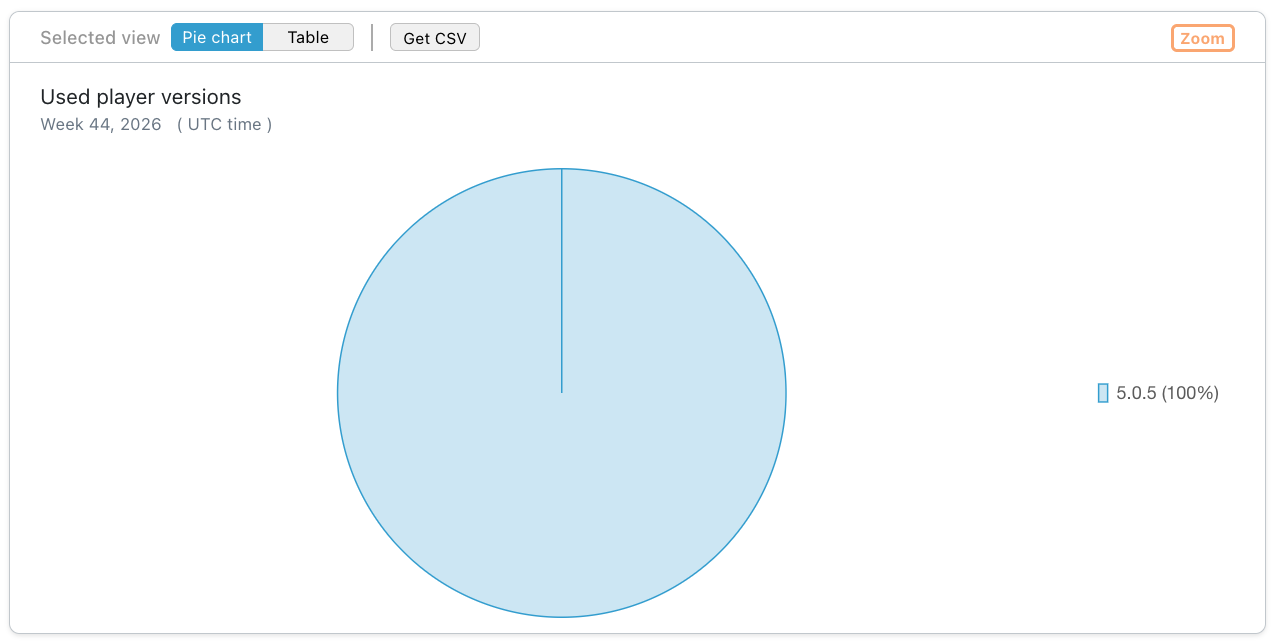
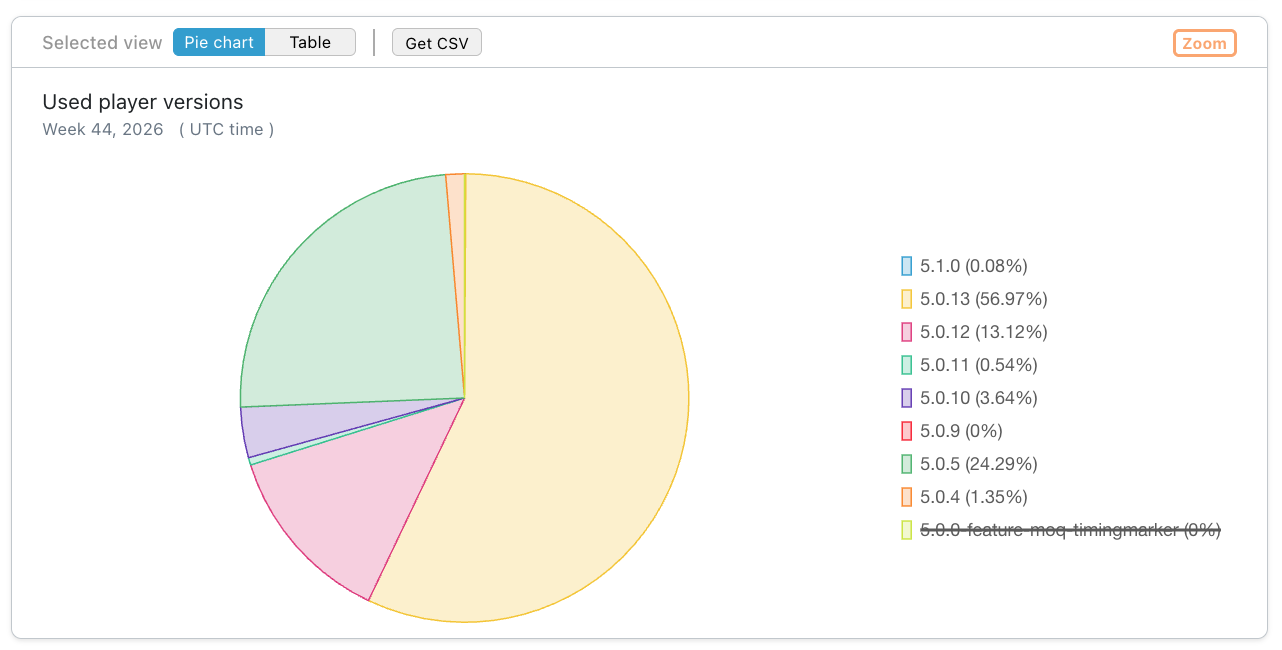
docs(analytics): MoQ dashboard release notes and review fixes
- Dashboard release notes 2.34.0: new MoQ page and H5Live change;
  move 2.33.0 to history
- H5Live dashboard page: info box that MoQ playbacks moved to the
  MoQ page
- MoQ dashboard page: remove admin-only latency percentiles chart,
  align wording with the H5Live page, add metrics-enabled note
- Replace used player versions screenshot

diff --git a/docs/cloud/analytics-dashboard-moq.md b/docs/cloud/analytics-dashboard-moq.md
@@ -8,35 +8,37 @@ sidebar_label: MoQ
 # MoQ
 
 The MoQ page shows metrics for playbacks of the Player that use [Media over QUIC (MoQ)](../nanoplayer/nanoplayer_feature_moq.md).
+These playbacks are shown here and not on the [H5Live](./h5live) page.
+Most of the metrics are only available with [H5Live metrics](./analytics-introduction.md) enabled.
 The selected filter options affect all available metrics.
 
 ![Screenshot: MoQ Charts](../assets/analytics/analytics-moq.png)
 *Screenshot: MoQ Charts*
 
-### MoQ playback count per os
+### MoQ playback count per OS
 
-Distribution of MoQ playbacks on operating systems (OS), as a percentage and as a count.
+Percentage distribution of MoQ playbacks on operating systems (OS), with the playback count.
 
-![Screenshot: MoQ playback count per os](../assets/analytics/analytics-moq-playback-count-os.png)
-*Screenshot: MoQ playback count per os*
+![Screenshot: MoQ playback count per OS](../assets/analytics/analytics-moq-playback-count-os.png)
+*Screenshot: MoQ playback count per OS*
 
 ### MoQ playback count per browser
 
-Distribution of MoQ playbacks in browsers, as a percentage and as a count.
+Percentage distribution of MoQ playbacks in browsers, with the playback count.
 
 ![Screenshot: MoQ playback count per browser](../assets/analytics/analytics-moq-playback-count-browser.png)
 *Screenshot: MoQ playback count per browser*
 
-### MoQ playtime per os
+### MoQ playtime per OS
 
-Distribution of MoQ playtime on operating systems (OS), as a percentage and as total playtime.
+Percentage distribution of MoQ playtime on operating systems (OS), with the total playtime.
 
-![Screenshot: MoQ playtime per os](../assets/analytics/analytics-moq-playtime-os.png)
-*Screenshot: MoQ playtime per os*
+![Screenshot: MoQ playtime per OS](../assets/analytics/analytics-moq-playtime-os.png)
+*Screenshot: MoQ playtime per OS*
 
 ### MoQ playtime per browser
 
-Distribution of MoQ playtime in browsers, as a percentage and as total playtime.
+Percentage distribution of MoQ playtime in browsers, with the total playtime.
 
 ![Screenshot: MoQ playtime per browser](../assets/analytics/analytics-moq-playtime-browser.png)
 *Screenshot: MoQ playtime per browser*
@@ -102,10 +104,3 @@ The number and types of reasons why MoQ playbacks were stopped or interrupted.
 
 ![Screenshot: Stop reasons](../assets/analytics/analytics-moq-stop-reasons.png)
 *Screenshot: Stop reasons*
-
-### Percentiles of average player latency in seconds
-
-The distribution of the average player latency of MoQ playbacks, shown as the 10th, 25th, 50th, 75th, 85th, 90th and 95th percentile.
-
-![Screenshot: Percentiles of average player latency in seconds](../assets/analytics/analytics-moq-latency-percentiles.png)
-*Screenshot: Percentiles of average player latency in seconds*

diff --git a/docs/cloud/analytics-dashboard-releases-latest.md b/docs/cloud/analytics-dashboard-releases-latest.md
@@ -7,12 +7,21 @@ sidebar_label: Latest
 
 # Changelog
 
-## 2.33.0 - Expired token revocation & buffering ratio
+## 2.34.0 - MoQ playback statistics
 
-### **Guardian — Token Revocation**
-   -  **expired playback tokens** can now be revoked for a **24-hour grace period** after expiration, so operators can still terminate ongoing playback sessions running on a technically-expired token
-   -  the **Expired** label is decoupled from the Revoke action: the label appears as soon as the token's `exp` is in the past, but the Revoke button stays available during the grace period
+### **MoQ**
+   -  added a new [**MoQ**](./analytics-dashboard-moq.md) page (`/moq`) below **H5Live**. It shows the playback metrics of the [Media over QUIC (MoQ)](../nanoplayer/nanoplayer_feature_moq.md) player with the following widgets
+      -  playback count per OS and per browser (zoom + CSV export)
+      -  playtime per OS and per browser (zoom + CSV export)
+      -  average and median playing time in seconds (zoom + CSV export)
+      -  play buffering ratio in percent (zoom + CSV export)
+      -  player loading count per country (zoom + CSV export)
+      -  used player versions (zoom + CSV export)
+      -  average and median player latency in seconds (zoom + CSV export)
+      -  median play startup time in seconds (zoom + CSV export)
+      -  status/error codes (zoom + CSV export)
+      -  stop reasons (zoom + CSV export)
 
 ### **H5Live**
-   -  the **Buffering Ratio** widget no longer fills future timestamps with zero values; the chart now ends at the last bucket with real data
-   -  buckets with no active streams are shown as a gap ("nothing to measure") instead of 0% ("measured, no buffering"); empty ranges show *No data available*
+   -  the H5Live page no longer includes playbacks via [Media over QUIC (MoQ)](../nanoplayer/nanoplayer_feature_moq.md); these playbacks are now shown on the [**MoQ**](./analytics-dashboard-moq.md) page
+   -  in the [Analytics API](./analytics-api-documentation.md#moq-metrics), the `/v2/h5live/*` routes exclude MoQ playbacks, and the `/v2/moq/*` routes report them separately

diff --git a/docs/cloud/analytics-dashboard-releases-history.md b/docs/cloud/analytics-dashboard-releases-history.md
@@ -7,6 +7,16 @@ sidebar_label: History
 
 # Changelog
 
+## 2.33.0 - Expired token revocation & buffering ratio
+
+### **Guardian — Token Revocation**
+   -  **expired playback tokens** can now be revoked for a **24-hour grace period** after expiration, so operators can still terminate ongoing playback sessions running on a technically-expired token
+   -  the **Expired** label is decoupled from the Revoke action: the label appears as soon as the token's `exp` is in the past, but the Revoke button stays available during the grace period
+
+### **H5Live**
+   -  the **Buffering Ratio** widget no longer fills future timestamps with zero values; the chart now ends at the last bucket with real data
+   -  buckets with no active streams are shown as a gap ("nothing to measure") instead of 0% ("measured, no buffering"); empty ranges show *No data available*
+
 ## 2.32.0 - Live captions & inactive ingest alerts
 
 -  added **Live Captions** analytics page (`/liveCaptions`) with the following widgets

diff --git a/docs/cloud/analytics-dashboard-h5live.md b/docs/cloud/analytics-dashboard-h5live.md
@@ -10,6 +10,12 @@ sidebar_label: H5Live
 Most of the metrics are only available with [H5Live metrics](#h5live) enabled.
 The selected filter options affect all availabe metrics.
 
+:::info
+Since Dashboard version 2.34.0, the H5Live page no longer includes playbacks via [Media over QUIC (MoQ)](../nanoplayer/nanoplayer_feature_moq.md). These playbacks are shown on the [MoQ](./moq) page.
+
+In the [Analytics API](./analytics-api-documentation.md#moq-metrics), the `/v2/h5live/*` routes exclude MoQ playbacks, and the `/v2/moq/*` routes report them separately.
+:::
+
 ![Screenshot: H5Live Charts](../assets/analytics/analytics-h5live.png)
 *Screenshot: H5Live Charts*
 
